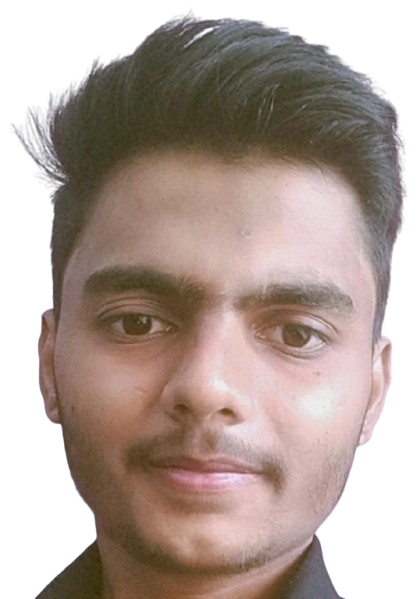
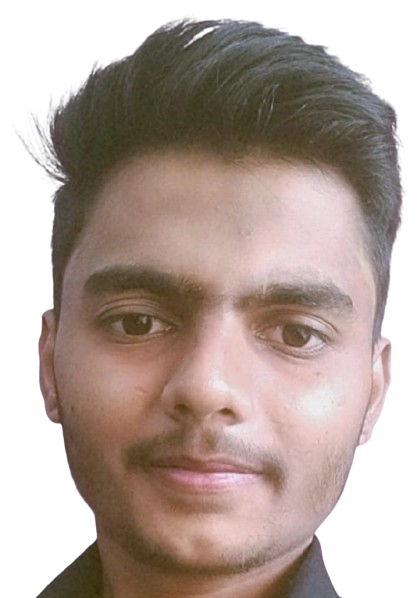
first commit

diff --git a/src/pages/education/EducationComponent.js b/src/pages/education/EducationComponent.js
@@ -3,17 +3,17 @@ import Header from "../../components/header/Header";
 import Footer from "../../components/footer/Footer";
 import TopButton from "../../components/topButton/TopButton";
 import Educations from "../../containers/education/Educations";
-// import Certifications from "../../containers/certifications/Certifications";
-// import CompetitiveSites from "../../components/competitiveSites/CompetitiveSites";
+import Certifications from "../../containers/certifications/Certifications";
+import CompetitiveSites from "../../components/competitiveSites/CompetitiveSites";
 import EducationImg from "./EducationImg";
-// import { competitiveSites } from "../../portfolio";
-// import { certifications } from "../../portfolio";
+import { competitiveSites } from "../../portfolio";
+import { certifications } from "../../portfolio";
 import "./EducationComponent.css";
 import { Fade } from "react-reveal";
 
 class Education extends Component {
   render() {
-    const {theme} = this.props.theme;
+    const theme = this.props.theme;
     return (
       <div className="education-main">
         <Header theme={this.props.theme} />

diff --git a/src/portfolio.js b/src/portfolio.js
@@ -752,7 +752,7 @@ const publications = {
 const contactPageData = {
   contactSection: {
     title: "Contact Me",
-    profile_image_path: "my_photo.png",
+    profile_image_path: "my_photo.jpg",
     description:
       "I am available on almost every social media. You can message me, I will reply within 24 hours. I can help you with web development .",
   },

diff --git a/src/pages/contact/AddressImg.js b/src/pages/contact/AddressImg.js
@@ -2,7 +2,7 @@ import React, { Component } from "react";
 
 export default class AddressImg extends Component {
   render() {
-    const {theme} = this.props.theme;
+    const theme = this.props.theme;
     return (
       <svg
         id="aaafdec0-95c8-49a3-a8f8-64216c6da511"

diff --git a/src/pages/projects/Projects.js b/src/pages/projects/Projects.js
@@ -9,7 +9,7 @@ import { Fade } from "react-reveal";
 import {
   greeting,
   projectsHeader,
-  // publicationsHeader,
+  publicationsHeader,
   publications,
 } from "../../portfolio.js";
 import ProjectsData from "../../shared/opensource/projects.json";
